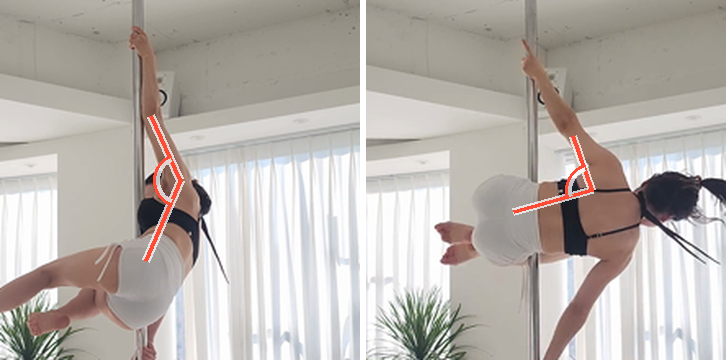
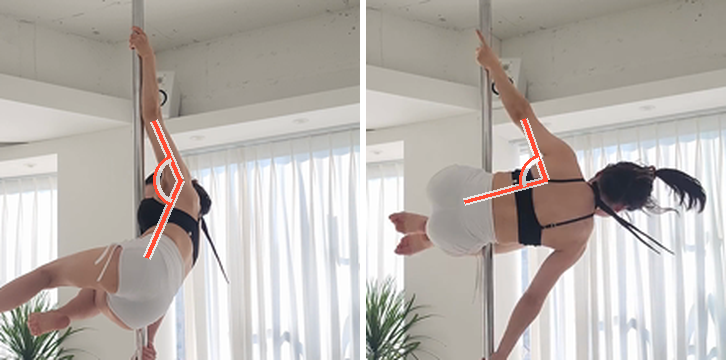
docs(33-11): A-4 목업 확인① 4라운드 — 어깨 쌍 재중심·동일 기하 미세조정 + 고칠 것 1·2 번호 헤더 + 목표-선행 카피 + 일러스트 B 선택 확정
- 어깨 쌍: 기준 크롭 어깨 꼭짓점 중심 재절단(두 패널 꼭짓점=정중앙 180,180) + 마킹 기하 통일(팔 64px·몸통 85px·호 27·두께 동일), v40 프레임·수동 배치 공개 유지
- A-5 제품화 지시 박제: 기준 라이브러리 11개 고정 → 기준 앵커 = 모션당 1회 수동 주석 저장(런타임 자동화 불필요)
- 다리 상세: 결함 2건을 '고칠 것 1 — 다리 벌림(−12점)' / '고칠 것 2 — 무릎 신전(−20점)' 번호 헤더 카드로 분리(record 내용 불변)
- ④ 카피: 목표 문장 선행 구조로 교체(멈춤 컷의 실제 자세에 '아래로' 지시 대상 부재 → 목표 모양 먼저), phrasebook 개정은 A-6(33-13) 후속으로 기록만
- ④-b: belle B(일러스트 동반) 선택 반영 — B 배지·A 미채택 강등, A-7(33-14) 생성 요건(동작별 목표 자세 컷+코칭 부위 하이라이트+해부학 검수) 박제
- 딥링크 #detail-shoulder 추가(부위 지정 열람)

diff --git a/.planning/phases/33-result-trust-recovery/mockups/index.html b/.planning/phases/33-result-trust-recovery/mockups/index.html
@@ -37,6 +37,22 @@
    5. ④ 멈춤 컷 = s018(엉덩이 방향, conf 0.2) → s017(u34 감점 측정 순간, 두 다리 가시,
       conf 0.68~0.82) 교체 + 강조 = 큰 원 1개 → 다리 모양 따라가는 얇은 선 2개 (kp34 실좌표)
    6. 일러스트 B = SVG placeholder 제거 → 32-08 belle 확정 2안 시안 실물(illust_variant2_pro.jpg)
+   ---------------------------------------------------------------------------
+   [4라운드 2026-07-28] belle 피드백 4건 반영 (3라운드 판정 "진짜 많이 좋아졌는데, 좀만 더 조정"):
+   1. 어깨 쌍 미세조정 — 방향 승인("좋다 이거"), 기준 크롭을 어깨 꼭짓점 중심으로 재절단
+      → 두 패널 모두 꼭짓점 = 패널 정중앙(180,180)·같은 배율, 마킹 기하 통일(팔 선 64px·
+      몸통 선 85px·호 반경 27·두께 동일). v40 프레임·수동 배치 공개는 유지.
+      제품화 답(belle "가능만 하면"): 기준 라이브러리 11개 고정 → 기준 앵커는 모션당 1회
+      수동 주석 저장으로 충분(A-5 지시, ⑤ 기록) — 런타임 자동화 불필요.
+   2. 다리 상세 = 결함 2건이 "고칠 것 1·2" 번호 헤더 카드로 분리 — 무릎 신전 블록이
+      묻혀 안 보인다는 지적("하나 어디 갔냐"). record 내용은 불변, 표기만 강화.
+   3. ④ 카피 = 목표 문장 선행 구조 — 멈춤 컷은 학생의 실제(다리 수평) 자세라 "아래로"의
+      지시 대상이 화면에 없음("뭔 소리냐") → "목표는 위아래 한 줄 스플릿" 문장을 앞세우고
+      행동 지시가 따라오게 교체 (수직 스플릿 목표는 33-08/33-09 검증분 유지, 새 방향 창작 0).
+      phrasebook cueLine 의 목표-선행 개정은 A-6(33-13) 후속 — 이 플랜에서 phrasebook 미수정.
+   4. ④-b 일러스트 = belle B(동반) 선택 확정 — 조건: 일러스트는 "그 동작의 목표 자세 컷
+      (코칭 부위 하이라이트)"이어야 함(스타일 샘플 아님) → A-7(33-14) 생성 요건으로 박제,
+      A는 미채택 표기.
    ========================================================================= */
 :root{
   --brand:#FF4B33;            /* design.md §4 브랜드 (변경 금지) */
@@ -150,6 +166,16 @@ body{
 .legfx polyline.halo{stroke:rgba(255,255,255,.72); stroke-width:9;}
 .legfx.pulse{animation:legpulse 1.4s ease-in-out infinite;}
 @keyframes legpulse{0%,100%{opacity:1;} 50%{opacity:.5;}}
+/* ② 결함 블록 번호 헤더 (4라운드 피드백 2 — 두 블록이 안 놓치고 보이게) */
+.card.fault{border:1.5px solid var(--brand-tint-2); padding-top:0; overflow:hidden;}
+.fault-head{display:flex; align-items:center; gap:8px; margin:0 -14px 10px; padding:11px 14px;
+  background:var(--brand-tint); border-bottom:1px solid var(--brand-tint-2);
+  font-size:15px; font-weight:800; color:var(--brand); line-height:1.35;}
+/* ④-b belle 선택 표기 (4라운드 피드백 4 — B 확정, A 미채택) */
+.pickbadge{display:inline-block; background:var(--brand); color:#fff; border-radius:999px;
+  padding:4px 12px; font-size:12px; font-weight:800; margin-bottom:4px;}
+.col.notpicked .player{opacity:.45;}
+.col.notpicked .cap{color:#8b93a1;}
 /* ③ 탭 검수용 배너 (3라운드 피드백 4 — 앱 비탑재 명시) */
 .reviewbanner{max-width:940px; margin:0 auto 16px; background:var(--brand-tint); border:1.5px solid var(--brand);
   border-radius:12px; padding:12px 14px; font-size:13.5px; line-height:1.6; color:#8a3d30;}
@@ -187,13 +213,13 @@ code{font-family:ui-monospace,Menlo,monospace; font-size:11.5px; background:#F1F
 </head>
 <body>
 <div class="topbar">
-  <h1>Phase 33 목업 — 확대비교 · 영상 위 표시 (belle 확인 ① — 3라운드)</h1>
+  <h1>Phase 33 목업 — 확대비교 · 영상 위 표시 (belle 확인 ① — 4라운드)</h1>
   <p class="sub">데이터 전부 실물: belle 분석 doc <b>071df9f894d64d1696f106e613f51f5c</b> (파워스핀 잘못된예시, 51점)
     + 역립 실 doc(엘보 트위스트). 프레이밍 D는 이미 확정 — 여기서 다시 묻지 않아요.
-    <b>3라운드 반영:</b> ① 다리 글 ↔ doc record 전수 대조를 ⑤에 박제(의역·수치 오독 발견분 원문 교체) ·
-    ② <b>어깨 쌍 양쪽에 같은 각도 표시</b> + "여기를 보세요" 한 줄 · ③ 참고 문구 통일(감점 아님·회전 힘 영향) ·
-    ④ 최악 케이스 탭 = 검수용 명시 + 가림 해법 · ⑤ 멈춤 컷 = 두 다리 보이는 측정 순간으로 교체 + 다리 선 강조 ·
-    ⑥ 일러스트 = 2안 시안 실물.</p>
+    <b>4라운드 반영 (3라운드 피드백 4건):</b> ① <b>어깨 쌍 미세조정</b> — 두 사진 모두 어깨 꼭짓점을
+    정중앙에·같은 배율·같은 마킹 기하(선 길이·호·두께 동일) · ② 다리 상세 = <b>"고칠 것 1·2" 번호 헤더</b>로
+    벌림·무릎 신전 두 블록이 다 보이게 · ③ ④ 카피 = <b>목표 문장 선행</b> 구조("위아래 한 줄 스플릿"을 먼저,
+    행동 지시가 다음) · ④ 일러스트 = <b>belle 선택 B(동반) 확정</b> 반영, A-7 생성 요건 박제.</p>
   <div class="tabs">
     <button data-b="base" class="on">① 기본 화면 (D 확정)</button>
     <button data-b="detail">② 부위 탭 → 상세</button>
@@ -252,18 +278,18 @@ code{font-family:ui-monospace,Menlo,monospace; font-size:11.5px; background:#F1F
 <section class="board" id="board-detail">
   <h2>② 부위 탭 → 상세 — 확대 크롭 + 감점근거 글 + 일러스트 슬롯 (설계 질문 ①)</h2>
   <p class="lead">
-    기본 화면에서 부위를 탭하면 열리는 상세예요. <b>3라운드 수정 2건:</b>
-    (1) <b>어깨</b> — 다리 카드가 읽히는 이유(빨간 마킹이 결함을 그려줌)를 어깨에도 적용:
-    <b>학생·기준 두 사진에 같은 각도 표시</b>(팔 선 + 몸통 선 + 사이각 호)를 그리고,
-    사진 아래 "여기를 보세요" 한 줄을 붙였어요. 학생 쪽 = doc keypoint 실좌표, 기준 쪽 =
-    수동 배치(자동 좌표가 신뢰 게이트에 걸림 — 사유는 ⑤). 방향 일치 v40 프레임은 유지.
-    (2) <b>글 전수 대조</b> — 모든 블록의 글·수치를 doc record 원문·원값으로 맞췄어요
-    (2라운드 의역·수치 오독 발견분 교체, 대조 표는 ⑤).
+    기본 화면에서 부위를 탭하면 열리는 상세예요. <b>4라운드 수정 2건:</b>
+    (1) <b>어깨 쌍 미세조정</b> — 방향은 승인받았고("좋다 이거"), 남은 어긋남을 잡았어요:
+    기준 사진 크롭을 어깨 꼭짓점 중심으로 다시 잘라 <b>두 사진 모두 꼭짓점이 정중앙·같은
+    배율</b>이 되게 하고, 마킹 기하를 통일(팔 선·몸통 선 길이, 호 반경, 두께 전부 동일)했어요.
+    v40 프레임과 기준 쪽 수동 배치 공개는 그대로 (제품화 방안은 ⑤ A-5 지시).
+    (2) <b>다리 상세</b> — "무릎 피는 거 하나 어디 갔냐"(둘째 블록이 묻힘) 지적 →
+    결함 2건을 <b>"고칠 것 1 · 고칠 것 2" 번호 헤더 카드</b>로 분리했어요. record 내용은 불변.
   </p>
   <div class="stage">
     <div class="col">
-      <div class="cap">부위 상세 시트<small>다리 = 감점 2건 겹친 실제 케이스. 사진 마킹이 가리키는 결함(벌림)이 첫 블록,
-        무릎 신전은 둘째 블록 — 결함별로 나뉘고 수치는 각 블록 맨 뒤 작은 글씨.</small></div>
+      <div class="cap">부위 상세 시트<small>다리 = 감점 2건 겹친 실제 케이스. "고칠 것 1(벌림) · 고칠 것 2(무릎 신전)"
+        번호 헤더로 두 블록이 다 보여요 — 수치는 각 블록 맨 뒤 작은 글씨 그대로.</small></div>
       <div class="phone"><div class="screen">
         <div class="status"><span>9:41</span><span>&#9642;&#9642;&#9642; &#9684;</span></div>
         <div class="nav"><span class="back">&#8249;</span><span class="ttl">자세 비교 — 부위 상세</span></div>
@@ -278,10 +304,10 @@ code{font-family:ui-monospace,Menlo,monospace; font-size:11.5px; background:#F1F
       </div></div>
     </div>
   </div>
-  <p class="legend"><b>belle 확인 포인트 (3라운드):</b> (1) 어깨 — 양쪽에 같은 각이 그려지니
-    이제 두 사진이 "무엇을 견주는지" 읽히나요? (2) "여기를 보세요" 한 줄이 시선을 잡아주나요?
-    (3) 참고(손)는 상세 글 없이 사진만 — 점수 감점은 되지 않지만 회전·힘에 영향을 줄 수 있는
-    부위라 눈에 띈 차이만 보여드려요.</p>
+  <p class="legend"><b>belle 확인 포인트 (4라운드):</b> (1) 어깨 — 두 사진이 이제 같은 중심·
+    같은 배율·같은 표시로 "정말 미세조정"이 됐나요? (2) 다리 — "고칠 것 1 · 고칠 것 2" 헤더로
+    벌림과 무릎 신전 두 개가 다 보이나요? (3) 참고(손)는 상세 글 없이 사진만 — 점수 감점은
+    되지 않지만 회전·힘에 영향을 줄 수 있는 부위라 눈에 띈 차이만 보여드려요.</p>
 </section>
 
 <!-- ===================== ③ 최악 케이스 (D-08) ===================== -->
@@ -299,13 +325,13 @@ code{font-family:ui-monospace,Menlo,monospace; font-size:11.5px; background:#F1F
 <section class="board" id="board-video">
   <h2>④ 영상 위 표시 — 재생 중 → 음성 중(정지+부위 강조) → 재개</h2>
   <p class="lead">
-    흐름(재생→멈춤+강조→재개)과 왼/오른 개인화 카피·펄스는 승인 — 유지. <b>3라운드 수정 2건:</b>
-    (a) <b>멈춤 컷 교체</b> — 이전 컷(2.0s)은 엉덩이가 카메라를 향해 두 다리가 구분되지 않는
-    프레임이었어요(belle 지적). 음성 구간 안에서 <b>두 다리가 실제로 보이는 프레임 = 감점을 잰
-    바로 그 순간(1.89s, u34)</b>으로 교체 — 선택 근거·좌표 신뢰도는 ⑤.
-    (b) <b>강조 재설계</b> — 큰 원 1개는 덩어리로 보인다는 지적. 관절 원도 큰 원도 아닌,
-    <b>다리 모양을 따라가는 얇은 선 2개</b>(왼다리·오른다리, doc keypoint 실좌표)로 바꾸고
-    펄스는 유지했어요.
+    흐름(재생→멈춤+강조→재개)·멈춤 컷(1.89s)·다리 선 강조는 승인 — 유지. <b>4라운드 수정 1건:</b>
+    <b>카피 구조 교체</b> — "오른다리는 아래로 길게 눌러 한 줄로"가 이해 불가라는 지적("뭔 소리냐").
+    원인: 문장이 <b>목표 모양(수직 스플릿)</b>을 그리는데, 멈춤 컷의 학생 자세는 다리가 수평이라
+    "아래로"가 가리키는 대상이 화면에 없었어요. → <b>목표 문장을 먼저</b> 말하고 행동 지시가
+    따라오게 바꿨어요: "목표는 폴을 따라 위아래 한 줄 스플릿" → 왼다리·오른다리 지시.
+    방향 자체는 33-08/33-09 에서 검증된 수직 스플릿 목표 그대로 — 새 방향 창작 0.
+    (phrasebook cueLine 의 목표-선행 개정은 A-6(33-13) 데이터 후속 — ⑤ 기록)
   </p>
   <div class="stage">
     <div class="col" style="max-width:300px">
@@ -333,7 +359,7 @@ code{font-family:ui-monospace,Menlo,monospace; font-size:11.5px; background:#F1F
           <polyline points="181.8,304.0 120.6,312.3 73.8,337.9"/>
           <polyline points="186.5,331.5 153.0,326.4 131.8,336.6"/>
         </svg>
-        <div class="subtitle">왼다리는 폴을 따라 수직으로, 오른다리는 아래로 길게 눌러 한 줄로 뻗어보세요</div>
+        <div class="subtitle">목표는 폴을 따라 위아래 한 줄 스플릿이에요. 왼다리는 폴과 나란히 위로 곧게, 오른다리는 그 반대 방향으로 길게 뻗어요.</div>
         <div class="pbar"><div class="fill" style="width:21%"></div>
           <span class="cuedot" style="left:21%"></span><span class="cuedot" style="left:52%"></span><span class="cuedot" style="left:78%"></span></div>
         <div class="pstate"><span class="ic">&#10073;&#10073;</span><span>음성 중 — 잠시 멈춤</span></div>
@@ -351,19 +377,20 @@ code{font-family:ui-monospace,Menlo,monospace; font-size:11.5px; background:#F1F
     </div>
   </div>
 
-  <h2 style="margin-top:34px">④-b 음성 시점 일러스트 — 있는 버전 / 없는 버전 (belle 미결, 비교 후 결정)</h2>
+  <h2 style="margin-top:34px">④-b 음성 시점 일러스트 — belle 선택: B (일러스트 동반)</h2>
   <p class="lead">
-    같은 멈춤 컷 두 벌이에요. 오른쪽만 우상단에 <b>동작 일러스트</b>가 함께 떠요 — "폴을 따라 수직"을
-    말로만 듣는 것과 그림으로 보는 것의 차이를 비교해 주세요.
-    <b>3라운드:</b> B의 일러스트를 드로잉 placeholder 에서 <b>32-08에서 belle 이 확정한 준실사 2안
-    시안 실물</b>로 교체했어요. 단 이 시안의 동작은 파워스핀이 아니라 스타일 확인용 컷 —
-    power-spin 전용 컷은 A-7(33-14)에서 이 스타일로 생성해요.
+    <b>4라운드: belle 이 B 를 선택했어요 (확인 ① 3라운드 결정).</b> 조건 — 일러스트는 스타일
+    샘플이 아니라 <b>"그 자세에서의 부분"</b>: 그 동작의 목표 자세 컷에서 코칭하는 부위가
+    하이라이트된 그림이어야 해요. → <b>A-7(33-14) 생성 요건</b>으로 박제: 동작별 목표 자세 컷을
+    32-08 확정 2안(준실사) 스타일로 생성 + 코칭 부위 하이라이트 + 해부학 전수 검수.
+    아래 B 의 이미지는 여전히 <b>스타일 확인용 시안 실물</b>이에요(파워스핀 아님 — 정직 표기 유지),
+    실제 동작별 컷은 A-7 산출물로 교체돼요. A 는 미채택으로 남겨 비교 맥락만 보존해요.
   </p>
   <div class="stage">
-    <div class="col" style="max-width:300px">
-      <div class="cap">A · 일러스트 없음 (현행)<small>자막+다리 선 강조만.</small></div>
+    <div class="col notpicked" style="max-width:300px">
+      <div class="cap"><span class="chip gray">미채택</span><br>A · 일러스트 없음<small>자막+다리 선 강조만 — 비교 맥락 보존용.</small></div>
       <div class="player">
-        <img src="assets/belle_still_f017.png" alt="음성 중 — 일러스트 없음" />
+        <img src="assets/belle_still_f017.png" alt="음성 중 — 일러스트 없음 (미채택)" />
         <div class="dim"></div>
         <svg class="legfx pulse" viewBox="0 0 360 640" preserveAspectRatio="none" aria-hidden="true">
           <polyline class="halo" points="181.8,304.0 120.6,312.3 73.8,337.9"/>
@@ -371,15 +398,15 @@ code{font-family:ui-monospace,Menlo,monospace; font-size:11.5px; background:#F1F
           <polyline points="181.8,304.0 120.6,312.3 73.8,337.9"/>
           <polyline points="186.5,331.5 153.0,326.4 131.8,336.6"/>
         </svg>
-        <div class="subtitle">왼다리는 폴을 따라 수직으로, 오른다리는 아래로 길게 눌러 한 줄로 뻗어보세요</div>
+        <div class="subtitle">목표는 폴을 따라 위아래 한 줄 스플릿이에요. 왼다리는 폴과 나란히 위로 곧게, 오른다리는 그 반대 방향으로 길게 뻗어요.</div>
         <div class="pbar"><div class="fill" style="width:21%"></div>
           <span class="cuedot" style="left:21%"></span><span class="cuedot" style="left:52%"></span><span class="cuedot" style="left:78%"></span></div>
         <div class="pstate"><span class="ic">&#10073;&#10073;</span><span>음성 중 — 잠시 멈춤</span></div>
       </div>
     </div>
     <div class="col" style="max-width:300px">
-      <div class="cap">B · 일러스트 동반<small>음성이 읽는 동안 목표 자세 일러스트가 함께 —
-        스타일 실물(32-08 확정 2안), power-spin 컷은 A-7 생성.</small></div>
+      <div class="cap"><span class="pickbadge">belle 선택 — 확인 ① 3라운드</span><br>B · 일러스트 동반<small>음성이 읽는 동안 목표 자세 일러스트가 함께.
+        A-7 요건: 동작별 목표 자세 컷 + 코칭 부위 하이라이트 (아래 이미지는 스타일 확인용 시안).</small></div>
       <div class="player">
         <img src="assets/belle_still_f017.png" alt="음성 중 — 일러스트 동반" />
         <div class="dim"></div>
@@ -394,17 +421,17 @@ code{font-family:ui-monospace,Menlo,monospace; font-size:11.5px; background:#F1F
           <img src="assets/illust_variant2_pro.jpg" alt="준실사 2안 시안 실물 (32-08 belle 확정 스타일)" />
           <div class="t">스타일 실물 — 32-08 확정 2안 시안. power-spin 전용 컷은 A-7(33-14)에서 이 스타일로 생성</div>
         </div>
-        <div class="subtitle">왼다리는 폴을 따라 수직으로, 오른다리는 아래로 길게 눌러 한 줄로 뻗어보세요</div>
+        <div class="subtitle">목표는 폴을 따라 위아래 한 줄 스플릿이에요. 왼다리는 폴과 나란히 위로 곧게, 오른다리는 그 반대 방향으로 길게 뻗어요.</div>
         <div class="pbar"><div class="fill" style="width:21%"></div>
           <span class="cuedot" style="left:21%"></span><span class="cuedot" style="left:52%"></span><span class="cuedot" style="left:78%"></span></div>
         <div class="pstate"><span class="ic">&#10073;&#10073;</span><span>음성 중 — 잠시 멈춤</span></div>
       </div>
     </div>
   </div>
-  <p class="legend"><b>belle 확인 포인트 (3라운드):</b> (1) 멈춤 컷에서 이제 왼다리/오른다리가
-    구분돼 읽히나요? (컷 = 감점을 잰 1.89s 순간, 이전 2.0s 컷은 엉덩이 방향이라 기각 — 근거는 ⑤)
-    (2) 다리 선 강조가 큰 원 1개보다 "어디를 말하는지" 잘 짚나요?
-    (3) 일러스트 A/B 중 어느 쪽인가요? (B = 32-08 확정 2안 스타일 실물)
+  <p class="legend"><b>belle 확인 포인트 (4라운드):</b> (1) 목표 문장("위아래 한 줄 스플릿")이
+    먼저 오니 이제 "오른다리는 그 반대 방향으로"가 이해되나요? (2) B 선택 반영이 맞나요 —
+    특히 A-7 일러스트 요건("그 자세에서의 부분": 동작별 목표 자세 컷 + 코칭 부위 하이라이트)이
+    의도하신 조건 그대로인가요?
     재생 바의 마커 3개 = 감점 항목 3건의 순간 — 누르면 그 항목으로 이동하는 동작을 상정해요.</p>
 </section>
 
@@ -427,10 +454,12 @@ code{font-family:ui-monospace,Menlo,monospace; font-size:11.5px; background:#F1F
     <tr><td>belle_ref_full_hold</td>
       <td><code>reference/ref-power-spin.mp4</code> t=9.0s (hold 구간)</td>
       <td>대응 실패 폴백 표시용 기준 전신 실프레임</td></tr>
-    <tr><td>belle_shoulder_pair_facing <span class="chip brand">3R 갱신</span></td>
+    <tr><td>belle_shoulder_pair_facing <span class="chip brand">4R 갱신</span></td>
       <td>좌 = <code>uploads/csKW…/071df….mp4</code> v17 (doc u34 순간) · 우 = <code>reference/ref-power-spin.mp4</code> v40 (t≈4.0s)</td>
-      <td>② 어깨 상세 쌍. 3라운드: 양쪽에 같은 각도 표시(팔 선+몸통 선+호) 베이크 — 좌표 근거는 아래
-        "어깨 표시 좌표 근거". 바탕은 실프레임 crop/resize (같은 크롭 박스 220px·같은 배율), 합성 0</td></tr>
+      <td>② 어깨 상세 쌍. 4라운드 미세조정: 기준 크롭을 어깨 꼭짓점 중심으로 재절단 → <b>두 패널 모두
+        꼭짓점 = 패널 정중앙(180,180)</b>, 같은 220px 크롭·같은 배율 유지 + 마킹 기하 통일(팔 선 64px·
+        몸통 선 85px·호 반경 27·두께 동일 — 각도 방향은 실좌표/육안 배치 그대로). 좌표 근거는 아래
+        "어깨 표시 좌표 근거". 바탕은 실프레임 crop/resize, 합성 0</td></tr>
     <tr><td>belle_still_f017 <span class="chip brand">3R 신규</span></td>
       <td><code>uploads/csKW…/071df….mp4</code> → 9fps·640px 추출 s017 (t=1.89s = doc u34 감점 측정 순간)</td>
       <td>④ 멈춤 컷 교체분. crop/resize 0, 원프레임 그대로 — 다리 선은 HTML 오버레이(베이크 아님)</td></tr>
@@ -442,7 +471,8 @@ code{font-family:ui-monospace,Menlo,monospace; font-size:11.5px; background:#F1F
       <td>학생 v17 | 기준 v45(구 정렬 순간) | 기준 v40(방향 일치 채택) — 위 두 영상 실프레임</td>
       <td>아래 "방향 일치 프레임 탐색 기록"의 시각 증거 (한 장에 3프레임 나란히)</td></tr>
     <tr><td colspan="3">받은 시각: 1라운드 2026-07-28 19:00~19:05 KST + 2라운드 신규 2장 20:40~20:55 KST + 3라운드
-      갱신(어깨 쌍 표시 베이크·s017 추가) 2026-07-28 21:40~21:55 KST · doc = uid csKWYvI3WCPYPysNQ9KkWecaUvq1 / analysis <b>071df9f894d64d1696f106e613f51f5c</b> (status done · mode1 · 51점 · faultZoomStatus done)</td></tr>
+      갱신(어깨 쌍 표시 베이크·s017 추가) 2026-07-28 21:40~21:55 KST + 4라운드 갱신(어깨 쌍 재중심 — 원본 프레임은
+      3라운드 로컬 보관분 재사용, 재다운로드 없음) 2026-07-28 22:23 KST · doc = uid csKWYvI3WCPYPysNQ9KkWecaUvq1 / analysis <b>071df9f894d64d1696f106e613f51f5c</b> (status done · mode1 · 51점 · faultZoomStatus done)</td></tr>
   </table>
 
   <h3 style="font-size:15px;margin:18px 0 4px">다리 글 ↔ doc record 전수 대조 (3라운드 — "짜맞춤 아님" 검증)</h3>
@@ -494,8 +524,14 @@ code{font-family:ui-monospace,Menlo,monospace; font-size:11.5px; background:#F1F
       <td>reference keypoint report — kp78~81 conf 0.20~0.46 전부 &lt;0.5, kp80 은 어깨=손 좌표 동일(붕괴) +
         기준 report 에 elbow 관절 자체가 없음</td>
       <td class="drop">자동 드로잉 불가(신뢰 게이트 탈락) → <b>수동 배치</b> — v40 프레임 선택과 같은 지위(육안, 공개).
-        같은 선 두께·색·호 반경으로 학생 쪽과 동일 표기. 앱 자동화는 A-5 과제: 등면 구간 기준 좌표 확보(별도 신호)
-        전까지 이 카드의 기준 쪽 표시는 자동 생성 불가</td></tr>
+        4라운드: 수동 앵커의 full-frame 환산값을 기준으로 크롭을 어깨 중심 재절단(crop 77,146 → 105,152) —
+        꼭짓점이 학생 쪽과 같은 (180,180). 선 두께·색·호 반경·선 길이 학생 쪽과 전부 동일 표기</td></tr>
+    <tr><td><b>A-5(33-12) 구현 지시</b> <span class="chip brand">4R 확정</span></td>
+      <td colspan="2">belle "가능만 하면"에 대한 답: <b>가능해요 — 런타임 자동화가 필요 없어요.</b>
+        기준 라이브러리는 <b>11개 동작으로 고정</b>(phase4_v1 pinned)이라, 기준 쪽 각도 앵커(어깨·팔꿈치·엉덩이
+        방향점)는 <b>기준 모션당 1회 수동 주석</b>으로 달아 reference doc 에 앵커 데이터로 저장하면 끝 —
+        A-5 는 이 저장된 앵커를 읽어 그리기만 하면 돼요. 학생 쪽은 지금처럼 conf 게이트 통과 keypoint 자동
+        드로잉. 즉 "기준 등면 좌표 자동 확보" 미해결 문제는 제품 경로에서 제거됨(수동 1회 주석이 대체)</td></tr>
   </table>
 
   <h3 style="font-size:15px;margin:18px 0 4px">④ 멈춤 컷 선택 기록 (3라운드 — 두 다리 가시 프레임)</h3>
@@ -529,6 +565,19 @@ code{font-family:ui-monospace,Menlo,monospace; font-size:11.5px; background:#F1F
       부호 신호가 오답/정답 미구분). A-5(33-12) 자동화는 별도 신호(탐색창 확대 + 프레임 화소 대조 등)가 필요 — 구현 시 결정 항목</td></tr>
   </table>
 
+  <h3 style="font-size:15px;margin:18px 0 4px">4라운드 확정 · 후속 지시 (이 플랜은 기록만 — 코드·데이터 미수정)</h3>
+  <table class="insp">
+    <tr><th>대상</th><th>내용</th></tr>
+    <tr><td>A-5 (33-12)</td><td>기준 어깨 각도 앵커 = <b>기준 모션당 1회 수동 주석</b> 데이터로 저장·소비
+      (위 "어깨 표시 좌표 근거" 표의 구현 지시 행). 런타임 facing 자동 판별 요구 제거</td></tr>
+    <tr><td>A-6 (33-13)</td><td>phrasebook cueLine <b>목표-선행 구조 개정</b> — belle 가 4라운드 카피
+      ("목표는 폴을 따라 위아래 한 줄 스플릿이에요. …")를 승인하면, 해당 문형을 phrasebook 데이터에
+      반영. <b>이 플랜에서는 phrasebook.json 을 수정하지 않음</b>(기록만)</td></tr>
+    <tr><td>A-7 (33-14)</td><td>belle B(일러스트 동반) 선택의 조건 = 생성 요건: <b>동작별 목표 자세 컷</b>을
+      32-08 확정 준실사 2안 스타일로 생성 + <b>코칭 부위 하이라이트</b>("그 자세에서의 부분") +
+      해부학 전수 검수. 스타일 샘플 재사용 금지 — 목업의 시안 이미지는 자리표시</td></tr>
+  </table>
+
   <h3 style="font-size:15px;margin:18px 0 4px">사전 자체 검열 (판정 기준 6개 — belle 도달 전 Claude 가 먼저 떨어뜨림)</h3>
   <table class="insp">
     <tr><th>안</th><th>판정</th><th>사유</th></tr>
@@ -557,9 +606,10 @@ code{font-family:ui-monospace,Menlo,monospace; font-size:11.5px; background:#F1F
     <tr><td>어깨 몸-방향 (2라운드 갱신)</td><td>1라운드 = 글로 흡수(belle A). 2라운드 belle 재판정("매칭시켜야") → 수동 프로브로
       같은 회전 사이클 내 방향 일치 프레임 v40 을 찾아 쌍 교체 성공(위 탐색 기록). <b>자동화는 미해결</b> —
       2D keypoint 자동 판별은 프로브 FAIL 확정이라 A-5 구현에서 별도 신호 필요.</td></tr>
-    <tr><td>어깨 각도 표시 (3라운드)</td><td>학생 쪽 = doc kp34 실좌표 자동. <b>기준 쪽 = 수동 배치</b> —
+    <tr><td>어깨 각도 표시 (4라운드 갱신)</td><td>학생 쪽 = doc kp34 실좌표 자동. <b>기준 쪽 = 수동 배치</b> —
       ref kp report 가 등면 구간에서 conf 0.20~0.46(게이트 미달)+elbow 미보유라 자동 드로잉 불가(위 좌표 근거 표).
-      수동 배치도 육안 검증(확대 열람)을 거쳤지만, 앱 자동화는 기준 등면 좌표 확보가 선행돼야 해요(A-5 결정 항목).</td></tr>
+      4라운드에서 크롭 재중심·기하 통일로 두 패널을 동일 표기로 맞췄고, 제품 경로는 <b>기준 모션당 1회
+      수동 주석</b>(라이브러리 11개 고정)으로 확정 — 런타임 자동화 불필요(A-5 구현 지시 행).</td></tr>
     <tr><td>③ 가림 카드 사진 (3라운드)</td><td>확정 해법은 "안 가려진 프레임 캡처"(select_confident_frame 원칙의 크롭 앵커 적용)인데,
       카드 사진은 아직 가려진 순간의 저장분 실물이에요 — 보이는-프레임 캡처의 실물 예시는 A-5 구현 후 재분석분에서 나와요.
       (목업은 방향 확정용, 실물 렌더 아님을 명시)</td></tr>
@@ -569,12 +619,12 @@ code{font-family:ui-monospace,Menlo,monospace; font-size:11.5px; background:#F1F
     <tr><td>마커 위치</td><td>기본 화면 그룹 경계는 doc keypointReport 실좌표의 항목별 bounding. 단 이 목업의 그리기 자체는 앱 구현 전 제안 UI(오버레이).</td></tr>
   </table>
 
-  <p class="legend"><b>확인 방법 기록 (3라운드):</b> belle 에게 보내기 전 Claude 가 직접 확인한 것 —
-    (1) 어깨 쌍 마킹: 조립 후 두 패널을 각각 확대 열람해 선이 팔·몸통 위에 얹히는지 검증.
-    (2) ④ 다리 선: HTML 오버레이와 같은 좌표를 PIL 로 s017 실프레임에 겹쳐 렌더해 다리 위에 얹히는지 검증.
-    (3) 일러스트 실물(illust_variant2_pro.jpg)을 열어 32-08 확정 2안 시안인지 확인.
-    (4) 페이지 전체를 헤드리스 렌더해 탭 5개 스크린샷을 열람. 글 대조는 doc dump 원문(deductionBreakdown
-    records 전문)과 필드 단위로 대조했어요.</p>
+  <p class="legend"><b>확인 방법 기록 (4라운드):</b> belle 에게 보내기 전 Claude 가 직접 확인한 것 —
+    (1) 어깨 쌍 재조립: 두 패널의 어깨 꼭짓점이 각각 (180.1,180.1)/(180.2,180.2)로 일치함을 스크립트
+    출력으로 확인 + 조립본과 패널별 확대본을 열람해 선이 팔·몸통 위에 얹히는지 재검증.
+    (2) ④ 다리 선: 3라운드 검증분 유지(카피만 교체, 오버레이 좌표 불변).
+    (3) 페이지 전체를 헤드리스 렌더해 수정 탭(②·④·⑤) 스크린샷을 열람 — "고칠 것 1·2" 헤더 노출,
+    목표-선행 카피, B 선택 배지·A 미채택 표기 확인. 글 대조 표(3라운드)는 불변.</p>
 </section>
 
 <script>
@@ -587,13 +637,17 @@ const DETAILS = {
     pairL: '내 자세', pairR: '기준 (정은지)',
     onecap: '사진의 빨간 두 줄 = 내 두 다리 라인과 그 사이 각이에요',
     /* 블록 순서 = 사진의 마킹(벌림각 두 줄)이 가리키는 결함 먼저.
-       doc 저장 순서는 신전→벌림 — 순서만 화면 배치, 내용은 record 원문 (⑤ 대조 표). */
+       doc 저장 순서는 신전→벌림 — 순서만 화면 배치, 내용은 record 원문 (⑤ 대조 표).
+       4라운드: label = "고칠 것 N" 번호 헤더 (belle "무릎 피는 거 하나 어디 갔냐" — 둘째 블록
+       매몰 방지). record 내용(head/why/cue/num)은 불변, 표기만 추가. */
     records: [
-      { head: '다리를 벌린 각도가 기준보다 좁아요',
+      { label: '고칠 것 1 — 다리 벌림 (−12점)',
+        head: '다리를 벌린 각도가 기준보다 좁아요',
         why: '사진의 두 줄 사이가 좁을수록 스플릿이 덜 벌어진 것 — 다리를 더 벌리지 못하면 스플릿 완성도에서 감점되는 부분이에요',
         cue: '양 무릎을 각각 반대쪽 벽으로 밀어낸다는 느낌으로 다리를 벌려보세요',
         num: '측정 수치(참고) — 기준 대비 30° 좁음 → −12점' },
-      { head: '무릎이 기준보다 덜 펴져 있어요',
+      { label: '고칠 것 2 — 무릎 신전 (−20점)',
+        head: '무릎이 기준보다 덜 펴져 있어요',
         why: '다리 라인이 끝까지 뻗지 않으면 심사에서 신전 완성도로 감점되는 부분이에요',
         cue: '발끝으로 천장을 길게 밀어낸다는 느낌으로 다리를 쭉 뻗어보세요',
         num: '측정 수치(참고) — 실측 141° · 기준 180° → −20점(상한 적용)' }
@@ -608,7 +662,8 @@ const DETAILS = {
     pairL: '내 자세', pairR: '기준 (정은지)',
     onecap: '여기를 보세요: 빨간 두 선 사이 각 — 그립 팔과 몸통이 벌어진 정도를 기준과 견줘요',
     records: [
-      { head: '왼쪽 어깨(겨드랑이) 벌린 각도가 기준 자세와 차이가 있어요',
+      { label: '고칠 것 — 어깨 각도 (−17.4점)',
+        head: '왼쪽 어깨(겨드랑이) 벌린 각도가 기준 자세와 차이가 있어요',
         why: '어깨 벌린 각도가 기준에서 벗어나면 자세 정확도에서 감점되는 부분이에요',
         cue: '왼쪽 팔과 몸통 사이 각을 기준 자세에 나란히 겹쳐본다는 느낌으로 맞춰보세요',
         num: '측정 수치(참고) — 기준과 34° 차이 → −17.4점' }
@@ -639,8 +694,10 @@ function renderDetail(key){
   h += `<div class="onecap">${d.onecap}</div>`;
   h += `</div>`;
   for(const r of d.records){
-    /* 2라운드: 각도 수치 = 보조 강등 (녹색 배지 → 블록 맨 뒤 작은 회색 줄) */
-    h += `<div class="card">
+    /* 2라운드: 각도 수치 = 보조 강등 (녹색 배지 → 블록 맨 뒤 작은 회색 줄)
+       4라운드: "고칠 것 N" 번호 헤더 + 테두리 카드 — 결함 블록 매몰 방지 */
+    h += `<div class="card fault">
+      ${r.label ? `<div class="fault-head">${r.label}</div>` : ''}
       <div class="headline">${r.head}</div>
       <div class="why">${r.why}</div>
       <span class="cue">${r.cue}</span>
@@ -716,9 +773,13 @@ document.addEventListener('click', e=>{
 
 renderDetail('legs');
 renderWorst();
-/* 딥링크: index.html#detail / #worst / #video / #prov */
+/* 딥링크: index.html#detail / #worst / #video / #prov / #detail-shoulder (부위 지정) */
 const h0 = location.hash.replace('#','');
-if(h0 && document.getElementById('board-'+h0)) show(h0);
+if(h0){
+  const [b0, k0] = h0.split('-');
+  if(document.getElementById('board-'+b0)) show(b0);
+  if(b0==='detail' && k0 && DETAILS[k0]) renderDetail(k0);
+}
 </script>
 </body>
 </html>
